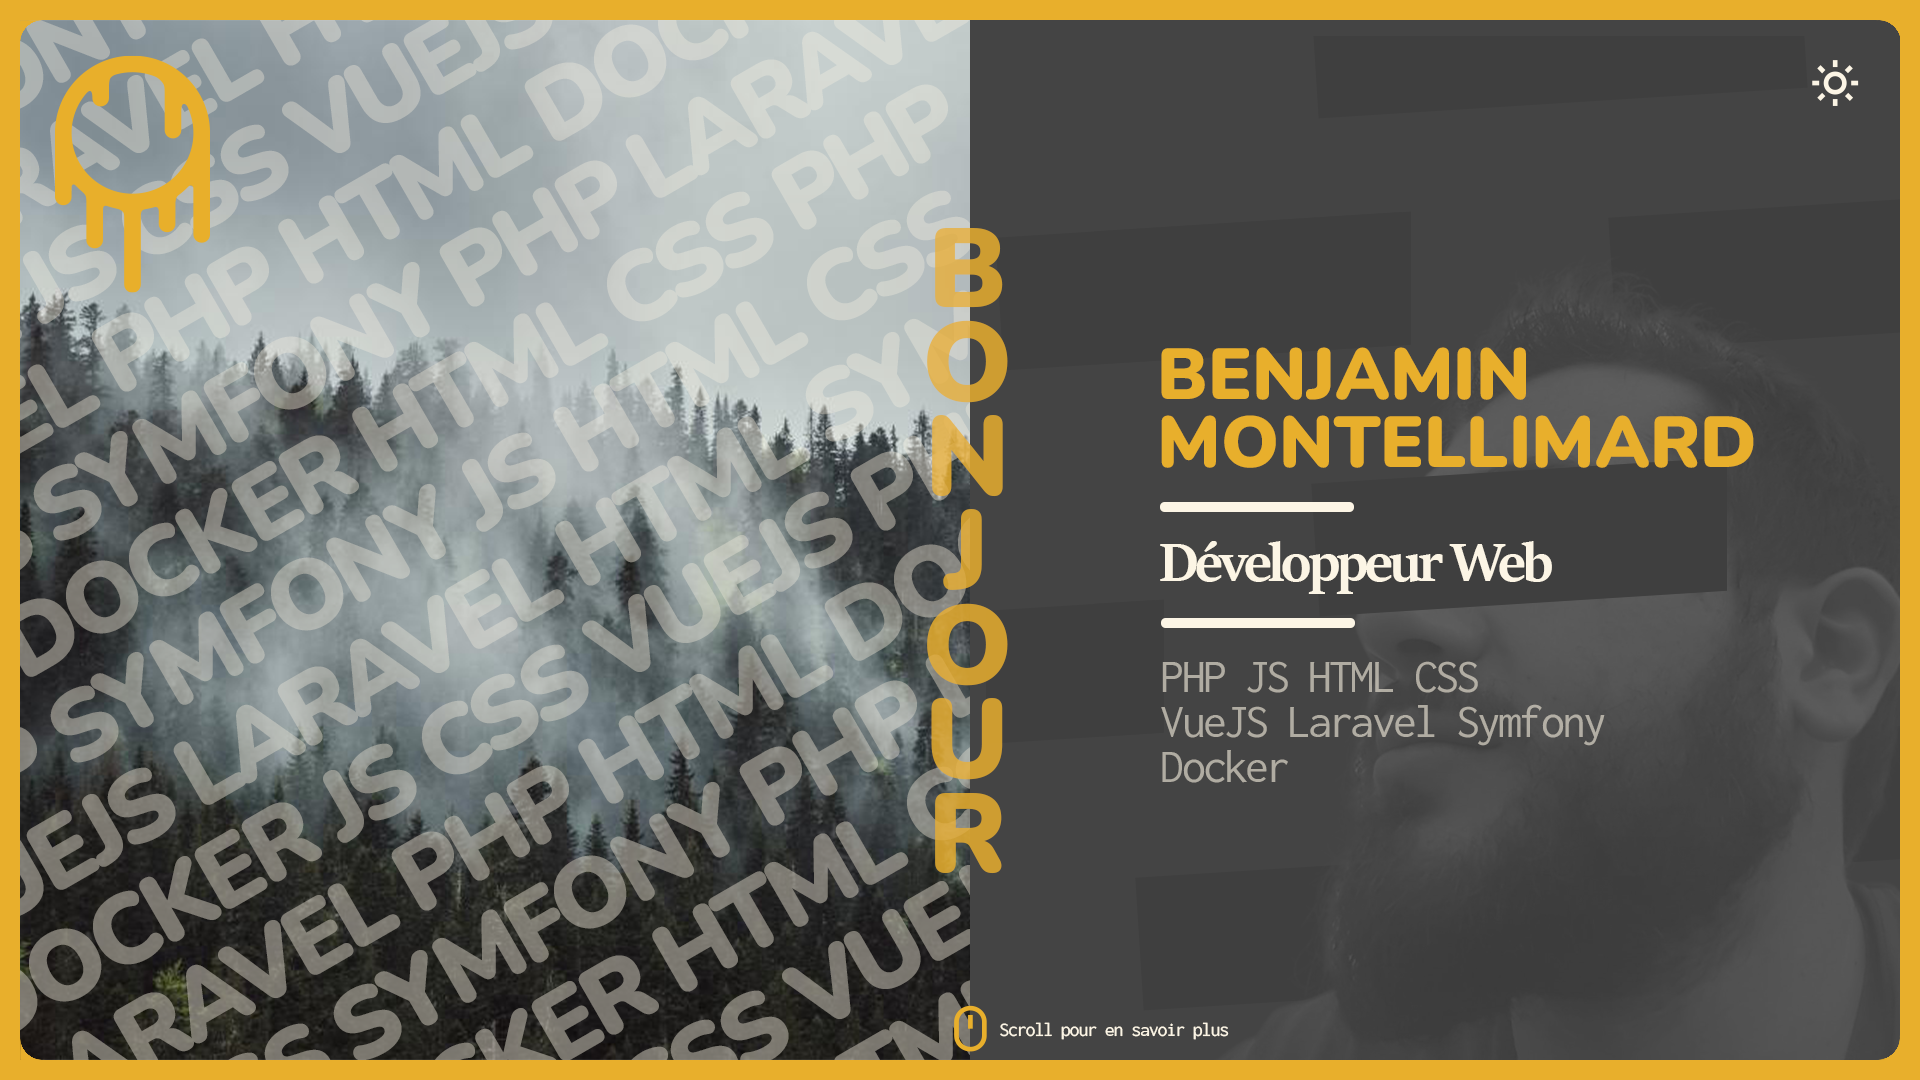
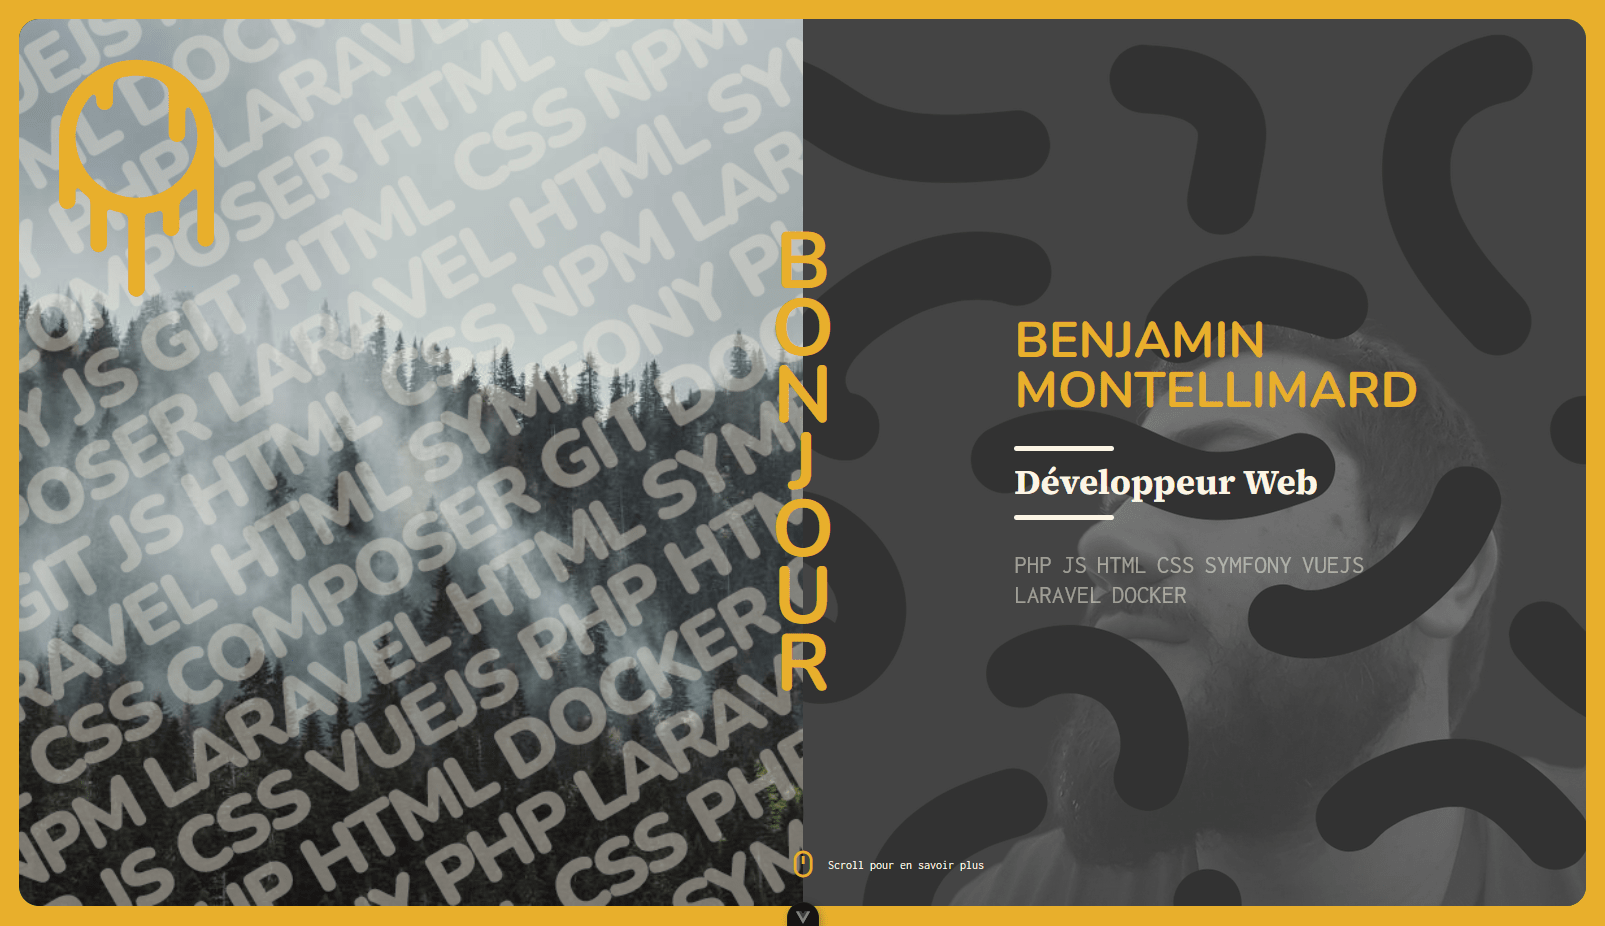
Update landing img right

diff --git a/src/components/home/TheLandingHome.vue b/src/components/home/TheLandingHome.vue
@@ -55,6 +55,7 @@ export default {
       <span class="hello" aria-hidden="true">{{ greeting }}</span>
       <div class="col__left"></div>
       <div class="col__right">
+        <div class="col__filter"></div>
         <div class="col__content">
           <h1>Benjamin<br />Montellimard</h1>
           <h2>Développeur Web</h2>
@@ -211,11 +212,27 @@ body.scroll #home__landing .col__left {
   height: 100%;
   display: flex;
   justify-content: center;
+  background-image: url('@/assets/img/montellimard-me.png');
+  background-size: cover;
+  background-repeat: no-repeat;
+  background-position: bottom right;
+}
+#home__landing .col__right .col__filter {
+  position: absolute;
+  z-index: 1;
+  width: 100%;
+  height: 100%;
+  background-color: var(--color-background);
+  top: 0;
+  left: 0;
+  opacity: 0.5;
 }
 
 #home__landing .col__content {
   position: relative;
-  width: 350px;
+  z-index: 2;
+  width: 400px;
+  padding: 20px;
   margin: auto;
 }
 
